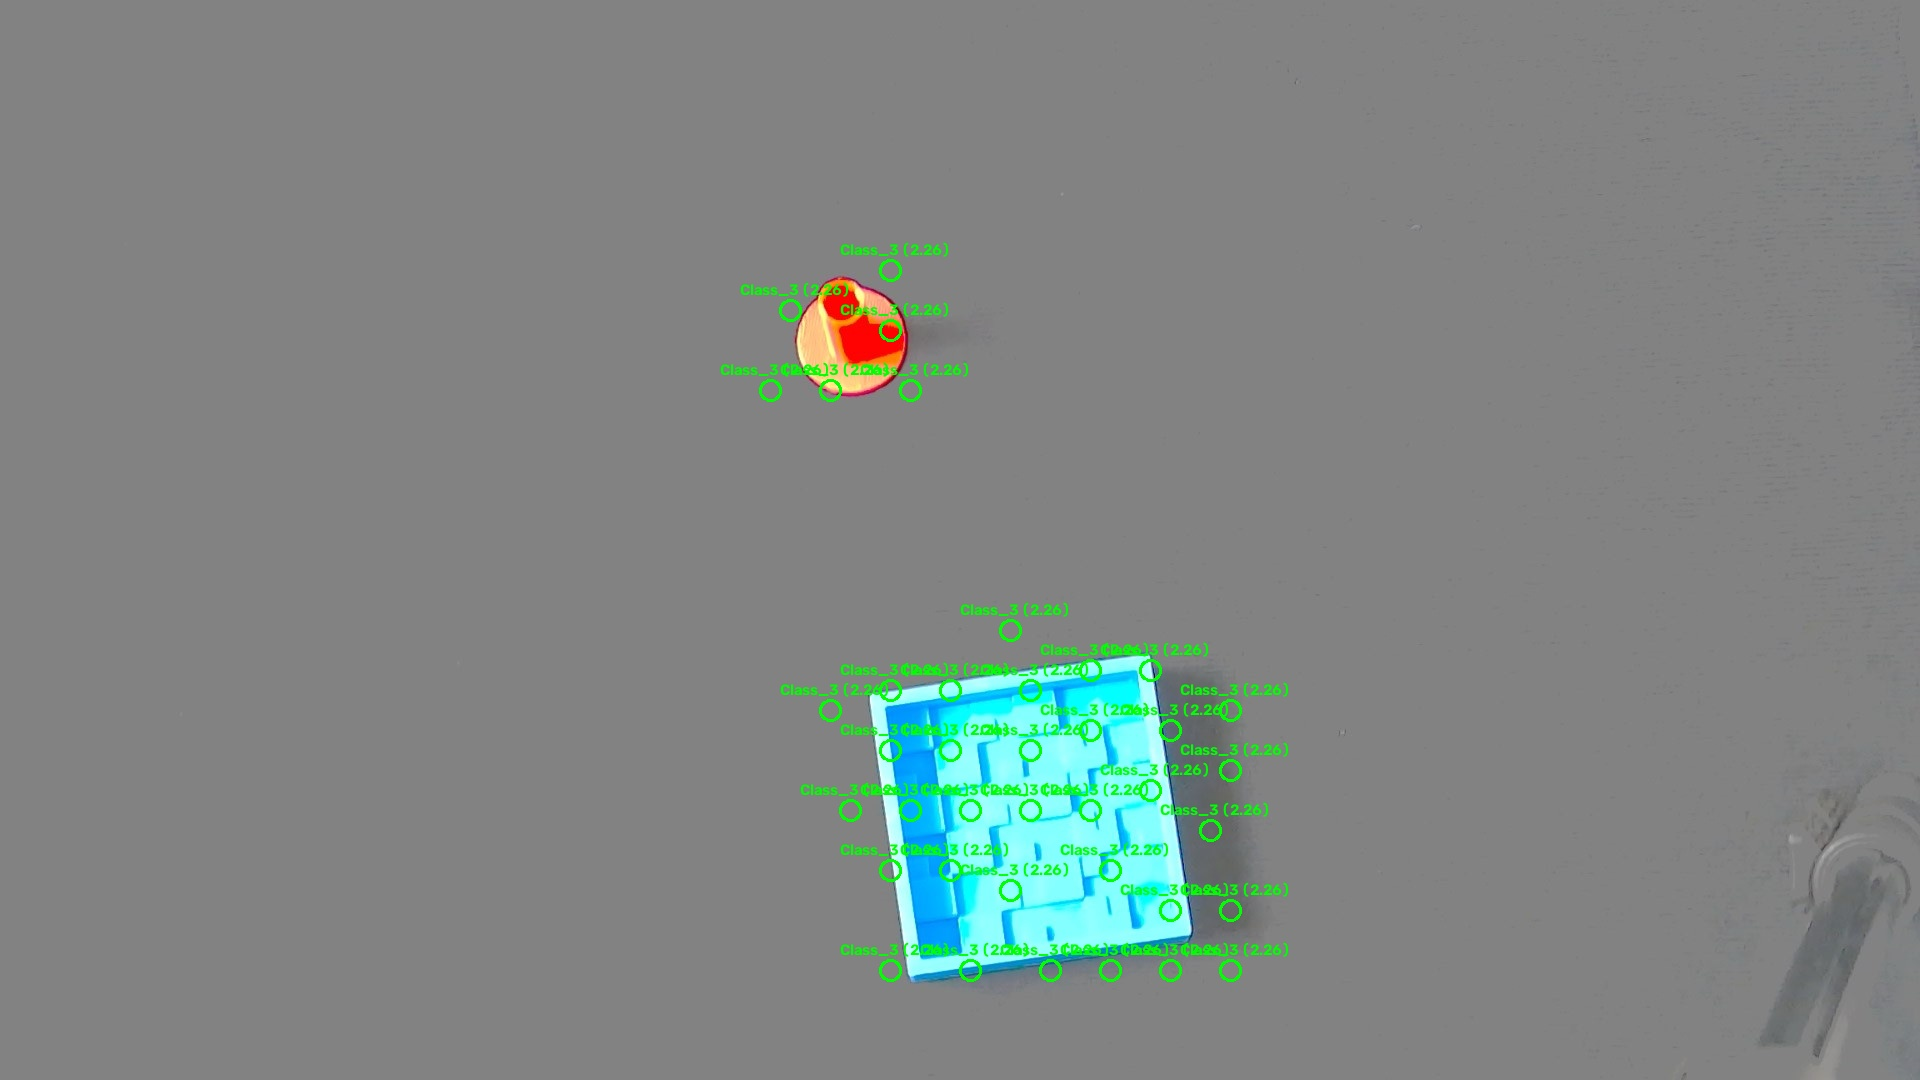
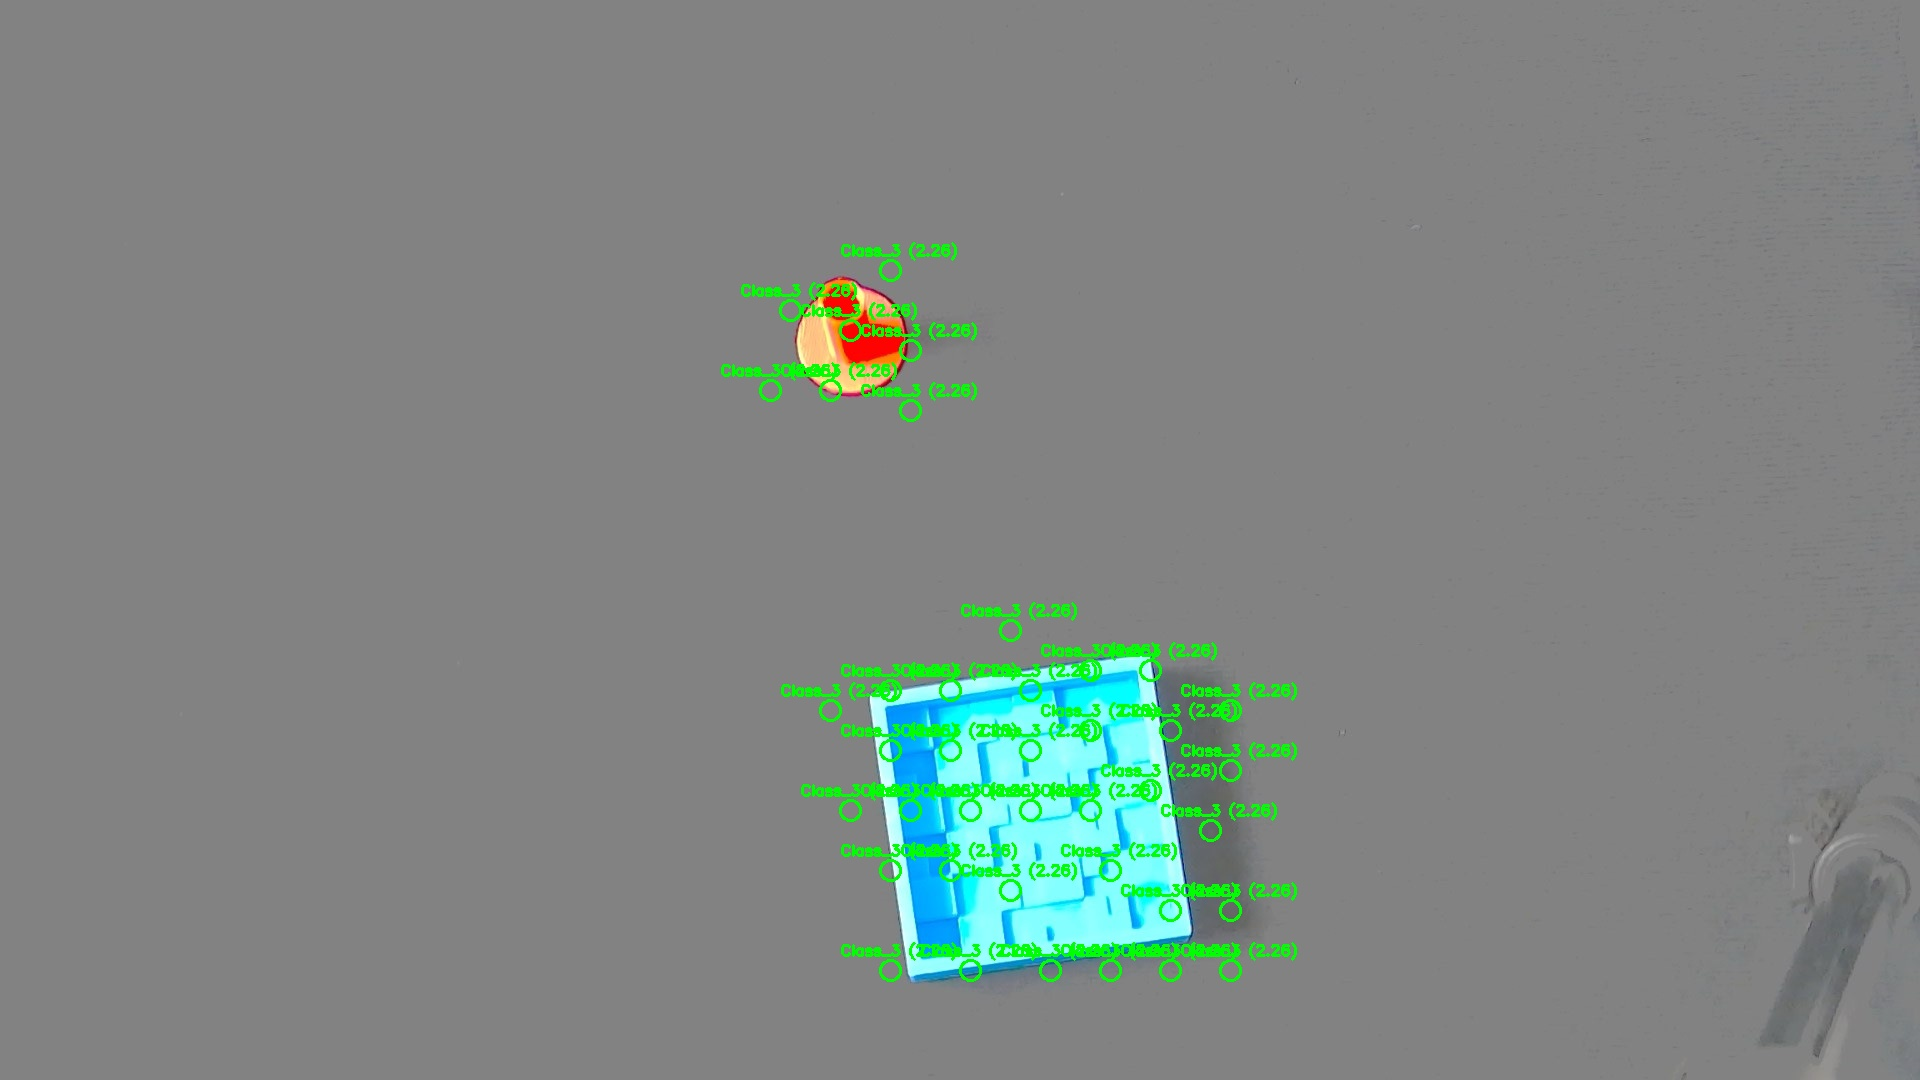
SVM

Changed region(s): [[0.4062, 0.55, 0.6875, 0.8861], [0.375, 0.2139, 0.5312, 0.3972]]

diff --git a/src/model/Test_svm.py b/src/model/Test_svm.py
@@ -114,7 +114,6 @@ def probar_svm_en_imagen(model, ruta_imagen, extractor, confidence_threshold=0.5
         # Si la ventana es muy homogénea (puro fondo gris liso), su desviación será muy baja.
         # Solo conservamos ventanas con texturas o cambios de color considerables (> 12.0)
         if desviacion[0][0] > 12.0:
-            detections_filtradas = det # Mantener solo las detecciones válidas
             detections_filtradas.append(det)
 
     print(f"Objetos reales post-filtrado de fondo: {len(detections_filtradas)}")
@@ -141,10 +140,10 @@ def probar_svm_en_imagen(model, ruta_imagen, extractor, confidence_threshold=0.5
 
 if __name__ == "__main__":
     
-    RUTA_DATASET = r"C:\Users\alumno\Documents\GitHub\Localizaci-n-y-Clasificaci-n-de-Im-genes-para-Manipulaci-n-Rob-tica\dataset\Entrenamiento"
+    RUTA_DATASET = r"dataset\Entrenamiento"
     
 
-    RUTA_IMAGEN_TABLERO = r"C:\Users\alumno\Documents\GitHub\Localizaci-n-y-Clasificaci-n-de-Im-genes-para-Manipulaci-n-Rob-tica\dataset\prueba1\ala.jpg"
+    RUTA_IMAGEN_TABLERO = r"dataset\prueba1\ala.jpg"
 
     model_svm, X_train, y_train = entrenar_svm(RUTA_DATASET, usar_pca=False)
     extractor = features_extractor(hist_bins=16, debug=False)

diff --git a/main.py b/main.py
@@ -11,7 +11,7 @@ import src.robot.Calibracion as c
 import src.robot.camara as cama
 import src.model.Extraccion_caracteristicas as ec
 import src.robot.dobot_movement as dm
-
+#HI
 #modelos
 import src.model.KNN as knn
 import src.model.SVM as svm